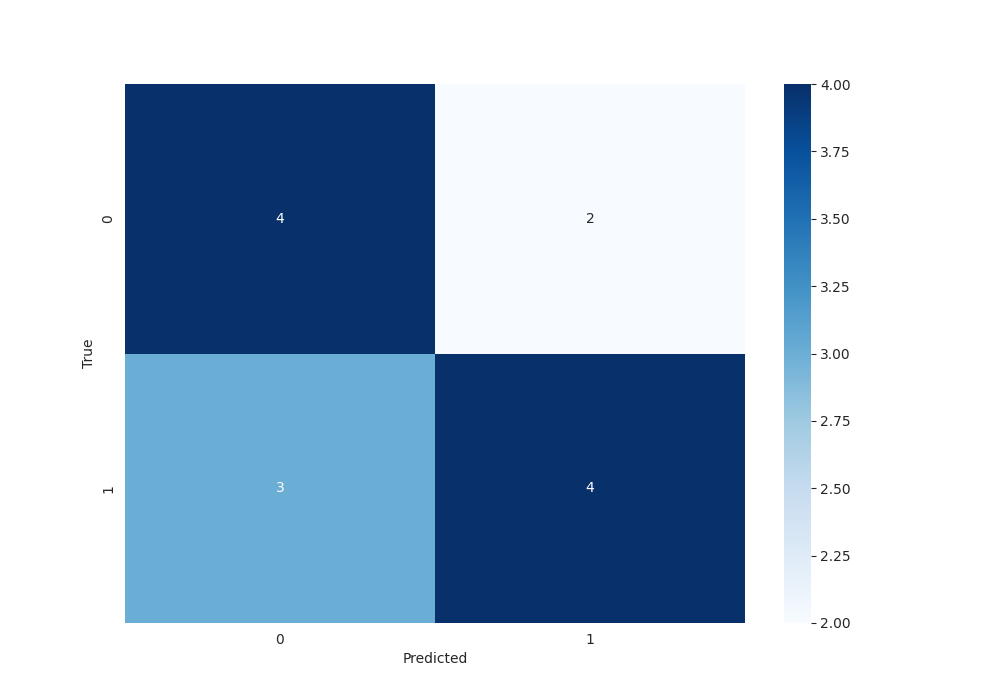
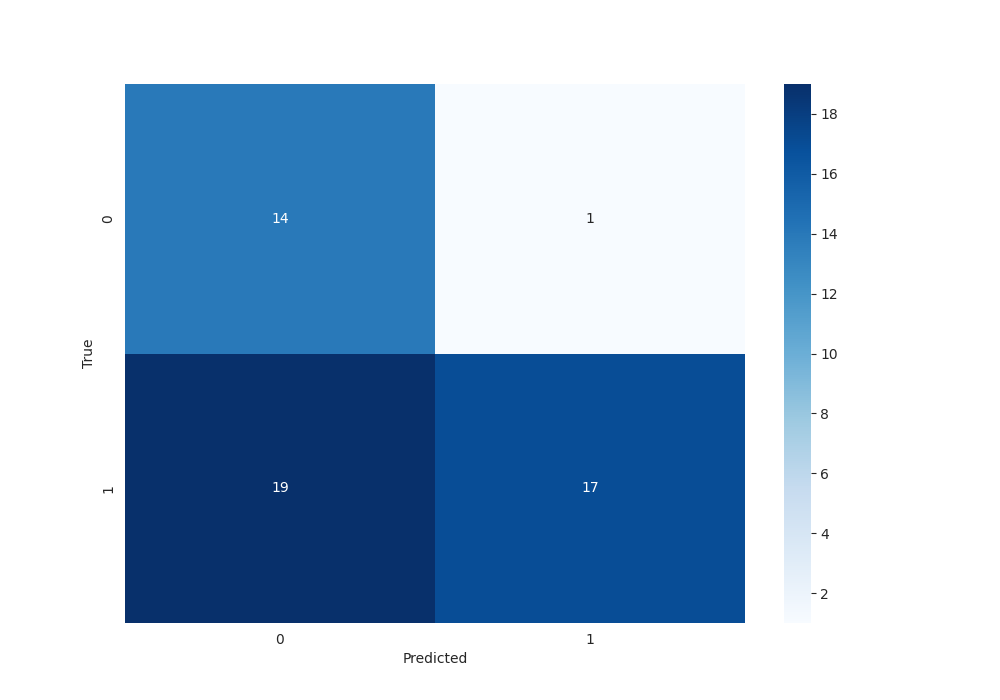
Splitting by mutation, got confusion matrix plotted

diff --git a/proteo/datasets/ftd.py b/proteo/datasets/ftd.py
@@ -58,12 +58,15 @@ class FTDDataset(InMemoryDataset):
         self.config = config
         self.has_plasma_col_id = 9
         self.plasma_protein_col_range = (10, 7299)
+        self.has_csf_col_id = 7299
+        self.csf_protein_col_range = (7300, 14588)
         self.nfl_col_id = 8
         self.carrier_status_col_id = 4
         self.adj_str = f'adj_thresh_{config.adj_thresh}'
         self.y_val_str = f'y_val_{config.y_val}'
         self.num_nodes_str = f'num_nodes_{config.num_nodes}'
         self.mutation_status_str = f'mutation_status_{config.mutation_status}'
+        self.plasma_or_csf_str = f'plasma_or_csf_{config.plasma_or_csf}'
 
         super(FTDDataset, self).__init__(root)
         self.feature_dim = 1  # protein concentration is a scalar, ie, dim 1
@@ -71,7 +74,7 @@ class FTDDataset(InMemoryDataset):
 
         path = os.path.join(
             self.processed_dir,
-            f'{self.name}_{self.y_val_str}_{self.adj_str}_{self.num_nodes_str}_{self.mutation_status_str}_{split}.pt',
+            f'{self.name}_{self.y_val_str}_{self.adj_str}_{self.num_nodes_str}_{self.mutation_status_str}_{self.plasma_or_csf_str}_{split}.pt',
         )
         self.load(path)
 
@@ -102,8 +105,8 @@ class FTDDataset(InMemoryDataset):
         https://github.com/pyg-team/pytorch_geometric/blob/master/torch_geometric/data/dataset.py
         """
         return [
-            f"{self.name}_{self.y_val_str}_{self.adj_str}_{self.num_nodes_str}_{self.mutation_status_str}_train.pt",
-            f"{self.name}_{self.y_val_str}_{self.adj_str}_{self.num_nodes_str}_{self.mutation_status_str}_test.pt",
+            f"{self.name}_{self.y_val_str}_{self.adj_str}_{self.num_nodes_str}_{self.mutation_status_str}_{self.plasma_or_csf_str}_train.pt",
+            f"{self.name}_{self.y_val_str}_{self.adj_str}_{self.num_nodes_str}_{self.mutation_status_str}_{self.plasma_or_csf_str}_test.pt",
         ]
 
     def create_graph_data(self, feature, label, adj_matrix):
@@ -142,7 +145,7 @@ class FTDDataset(InMemoryDataset):
         self.save(train_data_list, self.processed_paths[0])
         self.save(test_data_list, self.processed_paths[1])
 
-    def find_top_ks_values(self, csv_data, config):
+    def find_top_ks_values(self, csv_data, config, measurement_col_range):
         ks_stats = []
 
         mutation_map = {
@@ -159,7 +162,7 @@ class FTDDataset(InMemoryDataset):
         else:
             raise ValueError("Invalid mutation status specified.")
 
-        for i in range(self.plasma_protein_col_range[0], self.plasma_protein_col_range[1]):
+        for i in range(measurement_col_range[0], measurement_col_range[1]):
             protein_column = csv_data.columns[i]
 
             mutation_data = csv_data[condition1][protein_column]
@@ -182,7 +185,7 @@ class FTDDataset(InMemoryDataset):
         plasma_protein_names = top_columns['Protein'].values
         file_path = os.path.join(
             self.processed_dir,
-            f'top_proteins_num_nodes_{config.num_nodes}_mutation_status_{config.mutation_status}.npy',
+            f'top_proteins_num_nodes_{config.num_nodes}_mutation_status_{config.mutation_status}_{config.plasma_or_csf}.npy',
         )
         np.save(file_path, plasma_protein_names)
 
@@ -193,24 +196,47 @@ class FTDDataset(InMemoryDataset):
         print("Loading data from:", csv_path)
         pre_array_csv_data = pd.read_csv(csv_path)  # for KS scores
         csv_data = np.array(pre_array_csv_data)
-        has_plasma = csv_data[:, self.has_plasma_col_id].astype(int)
-        test_has_plasma_col_id(has_plasma)
-        has_plasma = has_plasma == 1  # Converting from indices to boolean
-        test_boolean_plasma(has_plasma)
+        if config.plasma_or_csf == 'plasma':
+            print("Using plasma data.")
+            has_measurement_col_id = self.has_plasma_col_id
+            measurement_col_range = self.plasma_protein_col_range
+        elif config.plasma_or_csf == 'csf':
+            print("Using CSF data.")
+            has_measurement_col_id = self.has_csf_col_id
+            measurement_col_range = self.csf_protein_col_range
+        else:
+            raise ValueError("Invalid plasma_or_csf. Must be 'plasma' or 'csf'.")
+        # Get the indices of the rows where has_measurement is True
+        has_measurement = csv_data[:, has_measurement_col_id].astype(int)
+        #test_has_plasma_col_id(has_plasma)
+        has_measurement = has_measurement == 1  # Converting from indices to boolean
+        #test_boolean_plasma(has_plasma)
+        
+        # Additional filtering based on mutation_status
+        if config.mutation_status == 'GRN':
+            mutation_filter = np.isin(csv_data[:, self.carrier_status_col_id], ['GRN.PreSx', 'GRN.Sx'])
+        elif config.mutation_status == 'MAPT':
+            mutation_filter = np.isin(csv_data[:, self.carrier_status_col_id], ['MAPT.PreSx', 'MAPT.Sx'])
+        elif config.mutation_status == 'C9':
+            mutation_filter = np.isin(csv_data[:, self.carrier_status_col_id], ['C9.PreSx', 'C9.Sx'])
+        else:  # 'CTL' or any other values
+            mutation_filter = np.ones_like(has_measurement, dtype=bool)
+        combined_filter = has_measurement & mutation_filter
+
         if config.y_val == 'nfl':
-            y_val, y_val_mask = self.load_nfl_values(csv_data, has_plasma)
+            y_val, y_val_mask = self.load_nfl_values(csv_data, combined_filter)
         elif config.y_val == 'carrier_status':
-            y_val, y_val_mask = self.load_carrier_status(csv_data, has_plasma)
+            y_val, y_val_mask = self.load_carrier_status(csv_data, combined_filter)
         else:
             "Invalid y_val. Must be 'nfl' or 'carrier_status'."
         # Extract and convert the plasma_protein values for rows
         # where has_plasma is True and nfl is not NaN.
-        plasma_protein_col_indices = self.find_top_ks_values(pre_array_csv_data, config)
-        plasma_protein = csv_data[has_plasma, :][:, plasma_protein_col_indices][y_val_mask].astype(
+        top_protein_col_indices = self.find_top_ks_values(pre_array_csv_data, config, measurement_col_range)
+        top_proteins = csv_data[has_measurement, :][:, top_protein_col_indices][y_val_mask].astype(
             float
         )
         # test_plasma_protein(plasma_protein) TODO: remove?
-        features = plasma_protein
+        features = top_proteins
         labels = y_val
 
         train_features, test_features, train_labels, test_labels = train_test_split(
@@ -226,11 +252,11 @@ class FTDDataset(InMemoryDataset):
 
         adj_path = os.path.join(
             self.processed_dir,
-            f'adjacency_{config.adj_thresh}_num_nodes_{config.num_nodes}_mutation_status_{config.mutation_status}.csv',
+            f'adjacency_{config.adj_thresh}_num_nodes_{config.num_nodes}_mutation_status_{config.mutation_status}_{config.plasma_or_csf}.csv',
         )
         # Calculate and save adjacency matrix
         if not os.path.exists(adj_path):
-            calculate_adjacency_matrix(plasma_protein, save_to=adj_path)
+            calculate_adjacency_matrix(top_proteins, save_to=adj_path)
         print(f"Loading adjacency matrix from: {adj_path}...")
         adj_matrix = np.array(pd.read_csv(adj_path, header=None)).astype(float)
         # Threshold adjacency matrix
@@ -247,7 +273,7 @@ class FTDDataset(InMemoryDataset):
         plt.savefig(
             os.path.join(
                 self.processed_dir,
-                f'adjacency_{config.adj_thresh}_num_nodes_{config.num_nodes}_mutation_status_{config.mutation_status}.jpg',
+                f'adjacency_{config.adj_thresh}_num_nodes_{config.num_nodes}_mutation_status_{config.mutation_status}_{config.plasma_or_csf}.jpg',
             )
         )
         plt.close()

diff --git a/proteo/callbacks.py b/proteo/callbacks.py
@@ -109,9 +109,20 @@ class CustomWandbCallback(Callback):
             if pl_module.config.task_type == "classification":
                 # Assuming binary classification; for multi-class, adjust accordingly
                 val_preds_binary = (torch.sigmoid(val_preds) > 0.5).int()
+                # Convert tensors to numpy arrays and ensure they are integers
+                val_targets_np = val_targets.cpu().numpy().astype(int).flatten()
+                val_preds_binary_np = val_preds_binary.cpu().numpy().astype(int).flatten()
+                # Convert numpy arrays to lists
+                val_targets_list = val_targets_np.tolist()
+                predicted_classes_list = val_preds_binary_np.tolist()
+                print("val preds binary", val_preds_binary_np)
+                print("val targets", val_targets_np)
+                # Convert tensors to numpy arrays and ensure they are integers
+                #val_targets_np = val_targets.cpu().int()
+                #val_preds_binary_np = val_preds_binary.cpu()
 
                 # Compute confusion matrix
-                cm = confusion_matrix(val_targets.numpy(), val_preds_binary.numpy())
+                '''cm = confusion_matrix(val_targets.numpy(), val_preds_binary.numpy())
 
                 # Plot confusion matrix using seaborn
                 plt.figure(figsize=(10, 7))
@@ -123,14 +134,16 @@ class CustomWandbCallback(Callback):
                 plot_path = 'confusion_matrix.png'
                 plt.savefig(plot_path)
                 plt.close()
-                time.sleep(1)  # wait for the file to be saved
+                time.sleep(2)  # wait for the file to be saved'''
 
                 # Log the confusion matrix plot
                 pl_module.logger.experiment.log(
                     {
                         "val_preds_sigmoid": wandb.Histogram(torch.sigmoid(val_preds)),
                         "val_accuracy": get_val_accuracy(val_preds, val_targets),
-                        "val_confusion_matrix": wandb.Image('confusion_matrix.png'),
+                        "conf_mat" : wandb.plot.confusion_matrix(probs=None,
+                        y_true=val_targets_np, preds=val_preds_binary_np,
+                        class_names=['Control', 'Carrier']),
                         "epoch": pl_module.current_epoch,
                     }
                 )

diff --git a/proteo/callbacks_ray.py b/proteo/callbacks_ray.py
@@ -160,28 +160,22 @@ class CustomRayWandbCallback(Callback):
 
             if pl_module.config.task_type == "classification":
                 val_preds_sigmoid = torch.sigmoid(val_preds)
+                #Note this assumes binary classification
                 predicted_classes = (val_preds_sigmoid > 0.5).int()
                 val_accuracy = (predicted_classes == val_targets).float().mean().item()
-
-                # Compute confusion matrix
-                cm = confusion_matrix(val_targets.numpy(), predicted_classes.numpy())
-
-                # Convert confusion matrix to a pandas DataFrame
-                labels = sorted(set(val_targets.numpy().flatten()))
-                columns = [f"Predicted_{label}" for label in labels]
-                index = [f"Actual_{label}" for label in labels]
-                cm_df = pd.DataFrame(cm, columns=columns, index=index)
-
-                # Convert DataFrame to WandB Table
-                cm_table = wandb.Table(dataframe=cm_df)
-
+                # Convert tensors to numpy arrays and ensure they are integers
+                val_targets_np = val_targets.cpu().numpy().astype(int)
+                predicted_classes_np = predicted_classes.cpu().numpy().astype(int)
 
                 wandb.log(
                     {
                         "val_preds_sigmoid": wandb.Histogram(val_preds_sigmoid),
                         "val_accuracy": val_accuracy,
-                        "confusion_matrix": cm_table,
                         "epoch": pl_module.current_epoch,
+                        "conf_mat" : wandb.plot.confusion_matrix(probs=None,
+                        y_true=val_targets_np, preds=predicted_classes_np,
+                        class_names=['Control', 'Carrier'])
+
                     }
                 )
 

diff --git a/proteo/train.py b/proteo/train.py
@@ -340,7 +340,7 @@ def get_wandb_logger(config):
 def read_protein_file(processed_dir, config):
     file_path = os.path.join(
         processed_dir,
-        f'top_proteins_num_nodes_{config.num_nodes}_mutation_status_{config.mutation_status}.npy',
+        f'top_proteins_num_nodes_{config.num_nodes}_mutation_status_{config.mutation_status}_{config.plasma_or_csf}.npy',
     )
     if os.path.exists(file_path):
         return np.load(file_path, allow_pickle=True)
@@ -380,7 +380,7 @@ def main():
             os.path.join(train_dataset.processed_dir, "histogram.jpg"),
             os.path.join(
                 train_dataset.processed_dir,
-                f"adjacency_{config.adj_thresh}_num_nodes_{config.num_nodes}_mutation_status_{config.mutation_status}.jpg",
+                f"adjacency_{config.adj_thresh}_num_nodes_{config.num_nodes}_mutation_status_{config.mutation_status}_{config.plasma_or_csf}.jpg",
             ),
         ],
     )

diff --git a/proteo/main.py b/proteo/main.py
@@ -102,7 +102,7 @@ def train_func(train_loop_config):
             "adjacency": wandb.Image(
                 os.path.join(
                     train_dataset.processed_dir,
-                    f"adjacency_{config.adj_thresh}_num_nodes_{config.num_nodes}_mutation_status_{config.mutation_status}.jpg",
+                    f"adjacency_{config.adj_thresh}_num_nodes_{config.num_nodes}_mutation_status_{config.mutation_status}_{config.plasma_or_csf}.jpg",
                 )
             ),
             "avg_node_degree": wandb.Table(columns=["avg_node_degree"], data=[[avg_node_degree]]),
